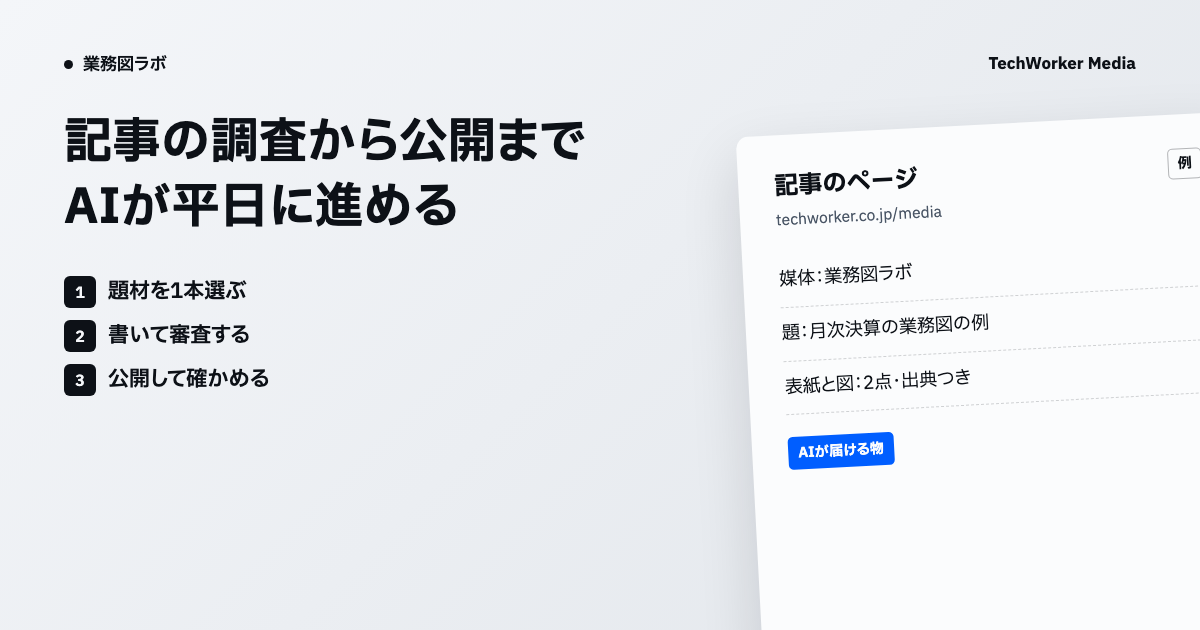
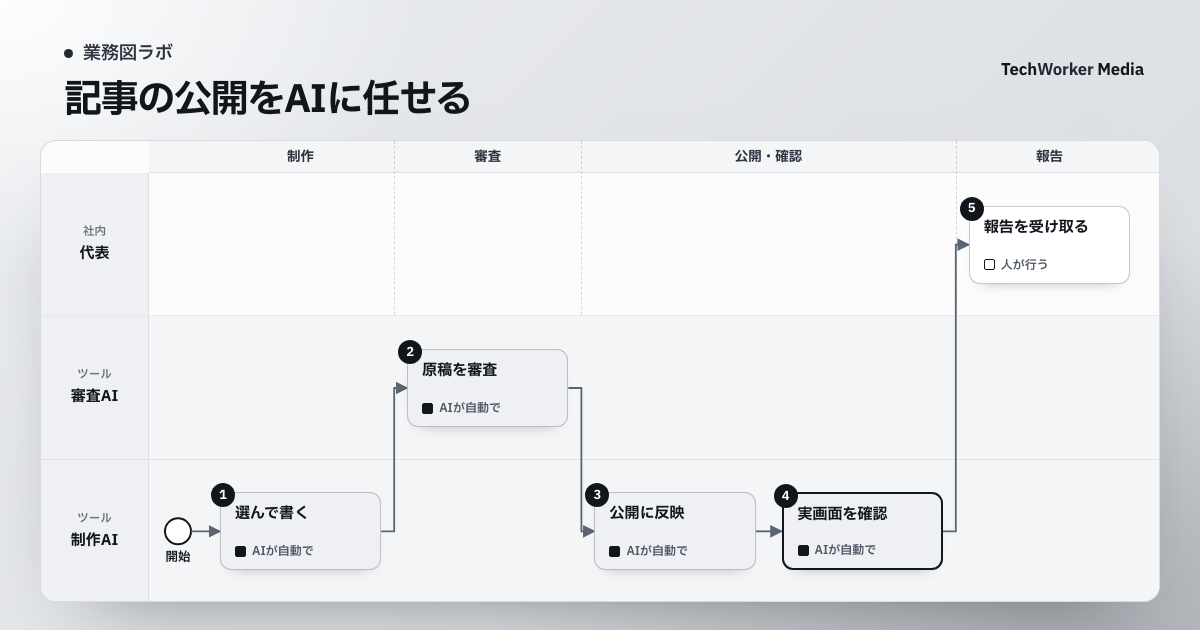
記事の自動公開に実画面の確認記録を追加 (#183)

diff --git a/media/gyomuzu/media-article-automation-process-map.html b/media/gyomuzu/media-article-automation-process-map.html
@@ -15,20 +15,20 @@
 <script>document.documentElement.classList.remove('no-js');document.documentElement.classList.add('js');</script>
 <meta name="viewport" content="width=device-width, initial-scale=1.0">
 <title>記事の公開をAIに任せる｜題材選びから表示の確認まで、審査で止める業務図 — TechWorker</title>
-<meta name="description" content="TechWorkerでは、自社メディアの記事を、AIが題材選びから公開まで平日に進めています。別の目で審査し、通った回だけ公開する流れと、代表が持つ所を紹介します。">
+<meta name="description" content="AIに記事の公開を任せる際は、原稿の合格から実サイトの表示確認までを担当の仕事に含めます。TechWorkerの10月27日の実行記録から、引継ぎ項目と止める条件を紹介します。">
 <link rel="icon" type="image/svg+xml" href="../../assets/favicon.svg">
 <link rel="canonical" href="https://techworker.co.jp/media/gyomuzu/media-article-automation-process-map">
 <meta property="og:type" content="article">
 <meta property="og:title" content="記事の公開をAIに任せる｜題材選びから表示の確認まで、審査で止める業務図">
-<meta property="og:description" content="TechWorkerでは、自社メディアの記事を、AIが題材選びから公開まで平日に進めています。別の目で審査し、通った回だけ公開する流れと、代表が持つ所を紹介します。">
-<meta property="og:image" content="https://techworker.co.jp/media/gyomuzu/covers/media-article-automation-process-map.png">
+<meta property="og:description" content="AIに記事の公開を任せる際は、原稿の合格から実サイトの表示確認までを担当の仕事に含めます。TechWorkerの10月27日の実行記録から、引継ぎ項目と止める条件を紹介します。">
+<meta property="og:image" content="https://techworker.co.jp/media/gyomuzu/covers/media-article-automation-process-map.png?v=20261029">
 <meta property="og:url" content="https://techworker.co.jp/media/gyomuzu/media-article-automation-process-map">
 <meta property="og:site_name" content="TechWorker">
 <meta name="twitter:card" content="summary_large_image">
 <meta name="twitter:title" content="記事の公開をAIに任せる｜題材選びから表示の確認まで、審査で止める業務図">
-<meta name="twitter:image" content="https://techworker.co.jp/media/gyomuzu/covers/media-article-automation-process-map.png">
+<meta name="twitter:image" content="https://techworker.co.jp/media/gyomuzu/covers/media-article-automation-process-map.png?v=20261029">
 <link rel="stylesheet" href="../article.css?v=20261006-source-notes">
-<script type="application/ld+json">{"@context": "https://schema.org", "@type": "Article", "headline": "記事の公開をAIに任せる｜題材選びから表示の確認まで、審査で止める業務図", "description": "TechWorkerでは、自社メディアの記事を、AIが題材選びから公開まで平日に進めています。別の目で審査し、通った回だけ公開する流れと、代表が持つ所を紹介します。", "datePublished": "2026-10-20", "dateModified": "2026-10-20", "inLanguage": "ja", "image": "https://techworker.co.jp/media/gyomuzu/covers/media-article-automation-process-map.png", "author": {"@type": "Person", "name": "古野光太朗", "jobTitle": "株式会社TechWorker 代表取締役 CEO兼CTO", "url": "https://techworker.co.jp/company.html", "image": "https://techworker.co.jp/assets/author-furuno.jpg", "sameAs": ["https://x.com/koutarou_furuno"], "affiliation": {"@type": "Organization", "name": "株式会社TechWorker", "url": "https://techworker.co.jp/"}}, "publisher": {"@type": "Organization", "name": "株式会社TechWorker", "url": "https://techworker.co.jp/", "logo": {"@type": "ImageObject", "url": "https://techworker.co.jp/assets/ogp.png", "width": 1200, "height": 630}}, "mainEntityOfPage": {"@type": "WebPage", "@id": "https://techworker.co.jp/media/gyomuzu/media-article-automation-process-map"}}</script>
+<script type="application/ld+json">{"@context": "https://schema.org", "@type": "Article", "headline": "記事の公開をAIに任せる｜題材選びから表示の確認まで、審査で止める業務図", "description": "AIに記事の公開を任せる際は、原稿の合格から実サイトの表示確認までを担当の仕事に含めます。TechWorkerの10月27日の実行記録から、引継ぎ項目と止める条件を紹介します。", "datePublished": "2026-10-20", "dateModified": "2026-10-29", "inLanguage": "ja", "image": "https://techworker.co.jp/media/gyomuzu/covers/media-article-automation-process-map.png?v=20261029", "author": {"@type": "Person", "name": "古野光太朗", "jobTitle": "株式会社TechWorker 代表取締役 CEO兼CTO", "url": "https://techworker.co.jp/company.html", "image": "https://techworker.co.jp/assets/author-furuno.jpg", "sameAs": ["https://x.com/koutarou_furuno"], "affiliation": {"@type": "Organization", "name": "株式会社TechWorker", "url": "https://techworker.co.jp/"}}, "publisher": {"@type": "Organization", "name": "株式会社TechWorker", "url": "https://techworker.co.jp/", "logo": {"@type": "ImageObject", "url": "https://techworker.co.jp/assets/ogp.png", "width": 1200, "height": 630}}, "mainEntityOfPage": {"@type": "WebPage", "@id": "https://techworker.co.jp/media/gyomuzu/media-article-automation-process-map"}}</script>
 <script type="application/ld+json">{"@context": "https://schema.org", "@type": "BreadcrumbList", "itemListElement": [{"@type": "ListItem", "position": 1, "name": "ホーム", "item": "https://techworker.co.jp/"}, {"@type": "ListItem", "position": 2, "name": "メディア", "item": "https://techworker.co.jp/media/"}, {"@type": "ListItem", "position": 3, "name": "業務図ラボ", "item": "https://techworker.co.jp/media/gyomuzu/"}, {"@type": "ListItem", "position": 4, "name": "記事の公開をAIに任せる｜題材選びから表示の確認まで、審査で止める業務図", "item": "https://techworker.co.jp/media/gyomuzu/media-article-automation-process-map"}]}</script>
 
 <!-- Meta Pixel Code -->
@@ -38,8 +38,8 @@ fbq('init','1264057945446029');fbq('track','PageView');
 </script>
 <noscript><img height="1" width="1" style="display:none" src="https://www.facebook.com/tr?id=1264057945446029&ev=PageView&noscript=1"/></noscript>
 <!-- End Meta Pixel Code -->
-<meta name="twitter:description" content="TechWorkerでは、自社メディアの記事を、AIが題材選びから公開まで平日に進めています。別の目で審査し、通った回だけ公開する流れと、代表が持つ所を紹介します。">
-<meta property="og:image:alt" content="記事の調査から公開までAIが平日に進める">
+<meta name="twitter:description" content="AIに記事の公開を任せる際は、原稿の合格から実サイトの表示確認までを担当の仕事に含めます。TechWorkerの10月27日の実行記録から、引継ぎ項目と止める条件を紹介します。">
+<meta property="og:image:alt" content="記事の公開をAIに任せる。制作・審査・反映・実画面確認と代表への報告を分ける業務図。">
 <link rel="stylesheet" href="/media/audience-filter.css?v=20261006-media-only">
 <link rel="stylesheet" href="/assets/site/site.css">
 </head>
@@ -67,43 +67,49 @@ fbq('init','1264057945446029');fbq('track','PageView');
 
 <header class="art-head">
 <nav class="crumb" aria-label="パンくず"><a href="../../index.html">ホーム</a><span class="sep">/</span><a href="../index.html">メディア</a><span class="sep">/</span><a href="index.html">業務図ラボ</a><span class="sep">/</span>記事の公開をAIに任せる</nav>
-<div class="kicker">AIエージェントの事例</div><h1>記事の公開をAIに任せる｜題材選びから表示の確認まで、審査で止める業務図</h1><p class="dek">TechWorkerでは、自社メディアの記事を、AIが題材選びから公開まで平日に進めています。別の目で審査し、通った回だけ公開する流れと、代表が持つ所を紹介します。</p>
-<div class="a-meta"><img class="av" src="../../assets/author-furuno.jpg" alt="古野光太朗" width="36" height="36" decoding="async"><span class="who">古野光太朗</span><span class="dot">·</span><time datetime="2026-10-20">2026.10.20</time><span class="dot">·</span><span>読了 3分</span></div>
+<div class="kicker">任せる工程の決め方</div><h1>記事の公開をAIに任せる｜題材選びから表示の確認まで、審査で止める業務図</h1><p class="dek">AIに記事の公開を任せる際は、原稿の合格から実サイトの表示確認までを担当の仕事に含めます。TechWorkerの10月27日の実行記録から、引継ぎ項目と止める条件を紹介します。</p>
+<div class="a-meta"><img class="av" src="../../assets/author-furuno.jpg" alt="古野光太朗" width="36" height="36" decoding="async"><span class="who">古野光太朗</span><span class="dot">·</span><time datetime="2026-10-20">2026.10.20</time><span class="dot">·</span><span>最終更新 2026.10.29</span><span class="dot">·</span><span>読了 6分</span></div>
 <p class="article-audience"><span class="article-audience-label">主な対象読者</span><a href="/media/gyomuzu/?audience=operations#articles">業務責任者</a></p>
 </header>
-<div class="art-layout"><nav class="art-toc" aria-label="目次"><div class="art-toc-inner"><div class="toc-h">目次</div><a href="#s1">当社では、AIが平日に記事を公開しています</a><a href="#s2">5つの媒体の記事を、同じ手順で出し続けます</a><a href="#s3">題材を選び、書いて審査し、公開して確かめます</a><a href="#s4">公開前の承認はせず、止まった回の原因は代表が受け取ります</a><a href="#s5">9月2日以降に足した記事のうち、29本が公開中です</a><a href="#s6">自社で試すときは、審査の条件と止まった回の知らせ方から決めます</a><a href="#s7">業務図で、AIが進める所と人が決める所を分けます</a><a href="#sources">出典と、本記事で提案した範囲</a></div></nav><article class="art-body">
-<h2 id="s1">当社では、AIが平日に記事を公開しています</h2>
-<p class="answer">TechWorkerでは2026年8月17日から、AIが自社メディアの記事を題材選びから公開まで進めています。今は平日に毎日起動し、9月2日以降に足した記事のうち、公開中は29本です。</p>
-<figure class="fig-inline source-figure"><a class="source-image" href="figs/media-article-automation-process-map-1.png" target="_blank" rel="noopener"><img src="figs/media-article-automation-process-map-1.png" width="1200" height="714" alt="記事の調査から公開まで、AIが平日に進めます。AIが読む物、AIの処理、届く物、人が決めること、課題と改善結果を1枚にまとめた事例のページの図。" loading="eager" decoding="async"></a><figcaption><span class="source-label">TechWorkerの事例のページ</span>出典：<a href="/agent-cases/media-articles">AIエージェントの事例「記事の調査から公開まで、AIが平日に進めます」</a>（2026年10月20日公開・確認）。画面の中身は例です。画像を押すと拡大できます。</figcaption></figure>
-<p>AIが読む物は2つです。自社の閲覧と検索の数字と、公式の発表などの新しい情報の原文です。届く物は自社サイトのメディアの記事のページです。</p>
-<p>仕組みの全体は<a href="/agent-cases/media-articles">事例のページ「記事の調査から公開まで、AIが平日に進めます」</a>にまとめています。</p>
-<h2 id="s2">5つの媒体の記事を、同じ手順で出し続けます</h2>
-<p class="answer">自社のメディアは5つの媒体に分かれ、題材選びから表示の確認まで手順が多くあります。5つの媒体の記事を、同じ手順で出し続ける必要がありました。</p>
-<p>審査の後に、公開されずに止まる回もありました。今は、計測から公開までを、AIが1回の流れで進めています。</p>
-<h2 id="s3">題材を選び、書いて審査し、公開して確かめます</h2>
-<p class="answer">1回の流れの中で、AIは題材を選び、書いて審査し、公開して表示を確かめます。</p>
-<figure class="fig-inline"><a href="figs/media-article-automation-process-map-2.png" target="_blank" rel="noopener"><img src="figs/media-article-automation-process-map-2.png" alt="記事をAIが公開する流れ（TechWorkerの自社メディア）。数字と発表が届く、題材を1本選ぶ、書いて審査する、公開して確かめる、止まった回の報告を読むの順に進みます。" width="1200" height="699" loading="lazy" decoding="async"></a><figcaption>TechWorker作成：記事をAIが公開する流れ（TechWorkerの自社メディア）。事例のページの仕組みをもとにした業務図です。</figcaption></figure>
-<p>題材は自社のノウハウか最新情報から1本選びます。図の例では、研修の費用の記事や業務図の作り方の記事について、閲覧と検索の表示の数字を見ています。</p>
-<p>書くときは、調べて根拠をつけます。表紙と図も作り、別の目で事実と文章を確かめます。</p>
-<p>公開したあとは、PCとスマホの表示を見ます。</p>
+<div class="art-layout"><nav class="art-toc" aria-label="目次"><div class="art-toc-inner"><div class="toc-h">目次</div><a href="#s1">原稿の合格から、実サイトの表示確認まで進める</a><a href="#s2">書くAI、審査するAI、公開を確かめるAIの仕事を分ける</a><a href="#s3">完了の記録に、URL・反映版・実画面の結果を残す</a><a href="#s4">止まった工程と、再開できる条件をそろえる</a><a href="#s5">最初は既存記事の更新で引継ぎを試す</a><a href="#sources">出典と確認できた範囲</a></div></nav><article class="art-body">
+<h2 id="s1">原稿の合格から、実サイトの表示確認まで進める</h2>
+<p>原稿の審査が済んでも、公開先に反映される前に止まると、読者には届きません。TechWorkerでは審査と公開、その後の表示確認を一続きの仕事にしています。</p>
+<p>次は2026年10月27日に公開した見積業務の記事です。自社の制作物として、タイトルと冒頭を示しています。</p>
+<figure class="fig-inline source-figure"><a class="source-image" href="figs/media-article-automation-process-map-source-20261029.jpg" target="_blank" rel="noopener"><img src="figs/media-article-automation-process-map-source-20261029.jpg" width="1280" height="720" alt="TechWorkerが10月27日に公開した見積業務の記事。タイトル、説明、公開日と対象読者が表示されています。" loading="eager" decoding="async"></a><figcaption><span class="source-label">自社で公開した記事の画面</span>出典：<a href="quotation-draft-review-process-map">見積のAI活用</a>。株式会社TechWorker作成。記事公開日2026年10月27日、画面確認日10月29日。自社保有の画面を掲載しています。押すと拡大できます。</figcaption></figure>
+<p>この画面から、記事のタイトルと公開日、対象読者を確認できます。画面に写っている範囲だけでは、記事末までの表示やスマホの状態は分かりません。</p>
+<p>10月27日の実行記録にはサイトへの反映成功と、PC・スマホの表示確認を別々に残しています。本文の表示、画像の読込、横にはみ出さないことを確かめました。記事中と記事末の申込み先も確認しています。</p>
+<h2 id="s2">書くAI、審査するAI、公開を確かめるAIの仕事を分ける</h2>
+<p class="answer">題材選びと執筆の後に、独立した審査を置きます。合格した原稿を反映し、実際の公開URLで表示を確かめます。</p>
+    <figure class="fig-inline"><a href="figs/media-article-automation-process-map-2.png?v=20261029" target="_blank" rel="noopener"><img src="figs/media-article-automation-process-map-2.png?v=20261029" alt="制作AIが題材を選んで書き、審査AIが原稿を確認します。合格後に制作AIが公開へ反映して実画面を確かめ、代表が報告を受け取る流れです。" width="1200" height="720" loading="lazy" decoding="async"></a><figcaption>TechWorker作成。自社の公開手順を担当別に示しています。図は合格した記事の流れで、不合格や不具合があれば止めて代表へ報告します。</figcaption></figure>
+<p>対象は業務図、研修・導入、士業、インタビュー、セキュリティの5媒体です。平日の1回の実行で扱う記事は1本です。題材は自社の実記録か、Xで観測して公式資料を確かめた最新情報から選びます。</p>
+<p>自社の数字は題材の需要や既存記事との重複を確かめる補助に使います。検索語だけで一般的な解説を増やさず、同じ問いに答える記事があれば更新に回します。</p>
+<p>本文を審査してから、表紙と必要な説明図を作ります。画像と本文を照合した後、許可された記事・画像・一覧などの変更だけをサイトへ反映します。</p>
+<p>この業務図は公開物と実行記録を基にした担当の整理です。AIの担当を分けた図であり、人間が毎回すべてを承認する流れではありません。</p>
 <aside class="mid-cta"><div class="mc-body"><div class="mc-k">無料ダウンロード</div><div class="mc-t">部署別 業務図テンプレート集</div><div class="mc-d">AIに任せる工程の見つけ方つき。担当と確認者を決める際に使える設計例です。</div></div><a href="../../library/?doc=gyomuzu&amp;utm_source=techworker_media&amp;utm_medium=article&amp;utm_campaign=media-article-automation-process-map&amp;utm_content=mid" class="btn" data-cta="media-article-automation-process-map-mid">無料で受け取る <i>→</i></a></aside>
-<h2 id="s4">公開前の承認はせず、止まった回の原因は代表が受け取ります</h2>
-<p class="answer">公開前の承認はしません。止まった回は、原因と再開の条件を代表が受け取ります。</p>
-<p>AIがするのは、審査に通った記事を公開するまでです。方針は代表が決めます。</p>
-<p>審査に通らない回は公開せず、本数も増やしません。</p>
-<h2 id="s5">9月2日以降に足した記事のうち、29本が公開中です</h2>
-<p class="answer">9月2日以降に足した記事のうち、2026年10月19日の時点で公開中は29本です。5つの媒体に、題材を選んで1本ずつ公開しています。</p>
-<p>公開するのは、審査に通った回だけです。</p>
-<h2 id="s6">自社で試すときは、審査の条件と止まった回の知らせ方から決めます</h2>
-<p class="answer">自社で同じ形を試すなら、最初に審査で確かめる条件と、止まった回の知らせ方を決めます。ここからは本記事の提案です。</p>
-<p>審査の条件が決まっていれば、公開の前に人が毎回読まなくても進められます。</p>
-<p>止まった回には原因と再開の条件を添えて知らせる形にします。知らせを受けた人は再開するかどうかだけを決めます。</p>
-<h2 id="s7">業務図で、AIが進める所と人が決める所を分けます</h2>
-<p class="answer">記事づくりのように手順が多い仕事は、AIが進める所と人が決める所を分けると、任せる範囲がはっきりします。業務図はその分け方を1枚で確かめる道具です。</p>
-<p>ギョウムズAIは聞き取り・資料・業務の記録の3つから、AIが部署の業務図を作るサービスです。2週間の無料検証から始められます。</p>
-<h2 id="sources">出典と、本記事で提案した範囲</h2>
-<ul class="source-list"><li>TechWorker社内の自動実行の設定と、自社サイトの公開の記録（2026年10月19日時点）。公開資料ではありません。</li><li><a href="/agent-cases/media-articles">TechWorker「AIエージェントの事例」の事例のページ</a>（2026年10月20日公開）。</li></ul>
-<p>流れ、審査で止める決まり、公開中の本数は当社の設定と記録にある事実です。審査の条件と止まった回の知らせ方を先に決めることは、本記事の提案です。記事ごとの閲覧の伸びと時間の削減は、本記事では扱いません。</p>
+<h2 id="s3">完了の記録に、URL・反映版・実画面の結果を残す</h2>
+<p>10月27日は、GitHubで原稿の変更を統合し、サイトへの配信処理の成功を確認しました。その後、公開した記事をPCとスマホで開いています。</p>
+<p>配信処理の成功は公開先へ送る工程の確認です。実画面では本文と画像が読めるか、申込みの案内が見えるかを確かめます。両方の記録を同じ記事に結び付けます。</p>
+<p>次の表は10月27日の記録から抜き出した項目です。公開URLと反映した版、画面の結果を同じ記録に残しています。</p>
+<div class="tbl-wrap"><table><thead><tr><th>記録する項目</th><th>10月27日の記録</th><th>確認する仕事</th></tr></thead><tbody>
+<tr><td>公開URL</td><td><a href="quotation-draft-review-process-map">見積のAI活用の記事URL</a></td><td>別の記事を見ていないか確かめる</td></tr>
+<tr><td>反映した版</td><td>変更の統合番号175、配信処理40423858002が成功</td><td>審査した原稿が反映されたか確かめる</td></tr>
+<tr><td>PC・スマホ</td><td>PC幅1,365px・スマホ幅390px。本文と画像を表示、横はみ出しなし</td><td>画像を含めて末尾まで読む</td></tr>
+
+</tbody></table></div>
+<p>自動検査では、本文が透明になっていないか、画像を読み込めたかも調べます。画像はスクロールして読み込むものも含めて確認します。画面幅を変えたときは、実際の表示幅も記録します。</p>
+<p>この1回の公開は無人運用の成功率や時間の削減を示す結果ではありません。記事の閲覧、申込み、売上は公開の確認とは別に測ります。</p>
+<h2 id="s4">止まった工程と、再開できる条件をそろえる</h2>
+<p>代表は、品質に合格した記事と画像を公開する範囲を、継続して承認しています。公開前に毎回承認を求める手順は置いていません。止まった回は、工程・原因・再開条件を代表へ報告します。方針を変える判断は代表が行います。</p>
+<p>根拠不足、画像の権利の懸念、記事の重複、表示の不具合があれば止めます。認証、課金、秘密情報、サイトの経路設定が変更に混ざった場合も、通常の記事公開として進めません。</p>
+<p>取得できない計測項目は未取得として残します。計測の不足だけを理由に、根拠と品質がそろった記事の公開を止めません。数字による成果の判定は取得できるまで保留にします。</p>
+<p>再開の報告は「画像を直したら、公開URLでPC・スマホの表示を再確認する」のように書きます。本人のログインや公開許可が要る場合は、その操作だけを分けます。権限のあるAIが直せる不具合は、任された範囲で直します。</p>
+<h2 id="s5">最初は既存記事の更新で引継ぎを試す</h2>
+<p>自社で試すなら、公開済みの記事を1本選び、更新する範囲と担当を決める方法を提案します。新しい記事を増やす前に、審査から表示確認まで通せるかを確かめます。</p>
+<p>始める前に、使ってよい資料、変更してよいファイル、審査の条件を決めます。契約や顧客情報を含む資料は、公開できる範囲を確かめてから渡します。</p>
+<p>業務図には、AIが読む資料、作る原稿、審査で戻す条件、公開後に確かめる物を記入します。最後に、止まった工程の担当と次の確認先を書きます。これで、誰が何を引き取るかを確かめられます。</p>
+<h2 id="sources">出典と確認できた範囲</h2>
+<ul class="source-list"><li><a href="/agent-cases/media-articles">記事の調査から公開まで、AIが平日に進めます</a>。TechWorkerの公開済み事例。2026年10月20日公開、10月29日確認。</li><li><a href="quotation-draft-review-process-map">10月27日に公開した見積業務の記事</a>。自社の公開物。10月29日確認。</li><li><a href="https://github.com/furuchanchan/techworker-hp/actions/runs/40423858002">10月27日のサイト配信処理の記録</a>。成功を確認。PC・スマホの検査結果は同日の自社運用記録と照合しました。</li></ul>
+<p>自社の公開手順と10月27日の確認結果を紹介しています。他社で試す順序は、TechWorkerの提案です。顧客の声、時間の削減率、申込みの増加は主張していません。</p>
 </article></div>
 
 <div class="author"><div class="inner">
@@ -116,17 +122,15 @@ fbq('init','1264057945446029');fbq('track','PageView');
 
 <section class="related"><div class="container">
   <h2 class="rl-h">あわせて読む</h2>
-  <div class="related-grid">
-    <a href="material-use-ideation-process-map.html" class="related-card"><span class="rc-cat">AIエージェントの事例を読む</span><div class="rc-title">新素材の用途探しにAIを使う｜案を広げ、3つの観点で絞る業務図</div></a><a href="department-ai-rollout-process-map.html" class="related-card"><span class="rc-cat">AIエージェントの事例を読む</span><div class="rc-title">AIの全社展開を部門ごとに計画する｜特性の整理から横展開までの業務図</div></a><a href="/agent-cases/" class="related-card"><span class="rc-cat">事例の一覧</span><div class="rc-title">AIエージェントの事例｜AIが読む物・処理・届く物・人が決めることを1件ずつ</div></a>
-  </div>
+  <div class="related-grid"><a href="ai-task-allocation-process-map.html" class="related-card"><span class="rc-cat">任せる工程を決める</span><div class="rc-title">AIに任せる業務の決め方｜商談業務図で読む、下書きと実行の境界</div></a><a href="site-weekly-improvement-process-map.html" class="related-card"><span class="rc-cat">公開後の見直し</span><div class="rc-title">サイトの改善をAIが毎週1つ進める｜数字を読み、直して台帳に残す業務図</div></a></div>
 </div></section>
 
 <div class="art-cta"><div class="inner">
   <div>
     <h3>部署の仕事の流れを、3つの情報からAIが業務図にします。</h3>
-    <p>ギョウムズAIは担当者への聞き取り・手元の資料・業務の記録の3つから、AIが部署の仕事の流れを1枚の業務図にするサービスです。2週間の無料検証では、任せる仕事の引き継ぎ書（業務図・判断の一覧など）を作ってお渡しします。</p>
+    <p>ギョウムズAIは、担当者への聞き取り・手元の資料・業務の記録の3つから、AIが部署の仕事の流れを1枚の業務図にするサービスです。任せる工程を決める前に、部署の仕事を確かめられます。</p>
   </div>
-  <a href="../../companymap/contact?utm_source=techworker_media&amp;utm_medium=article&amp;utm_campaign=media-article-automation-process-map&amp;utm_content=end" class="btn">無料相談を申し込む <i>→</i></a>
+  <a href="../../companymap/contact?utm_source=techworker_media&amp;utm_medium=article&amp;utm_campaign=media-article-automation-process-map&amp;utm_content=end" class="btn">30分の無料相談 <i>→</i></a>
 </div></div>
 <div class="back-list"><a href="index.html">← 業務図ラボの記事一覧に戻る</a></div>
 

diff --git a/media/gyomuzu/index.html b/media/gyomuzu/index.html
@@ -134,7 +134,7 @@ fbq('init','1264057945446029');fbq('track','PageView');
 <div id="audience-results" class="jz-list has-thumb rv">
 <a data-audience-item data-audience="operations" href="quotation-draft-review-process-map.html"><img class="l-thumb" src="covers/thumbs/quotation-draft-review-process-map.jpg" alt="見積のAI活用｜下書き・確認・送信を分ける業務図" width="600" height="315" loading="lazy"><div class="l-side"><div class="l-cat">部署別の業務図</div><div class="l-date">2026.10.27</div></div><div><div class="l-title">見積のAI活用｜下書き・確認・送信を分ける業務図</div><div class="l-desc">電材・電線卸の見積業務を、デンミツAIの公開画面から読み解きます。品番・数量・単価を人へ戻す条件と、試行時に残す記録を設計例で示します。</div><span class="audience-tag">業務責任者</span></div><div class="l-arrow">&rarr;</div></a>
 <a data-audience-item data-audience="it" href="company-memory-nightly-process-map.html"><img class="l-thumb" src="covers/thumbs/company-memory-nightly-process-map.jpg" alt="会社の記憶をAIが毎晩整理する｜記録から事実を抜き、翌朝のAIに渡す業務図" width="600" height="315" loading="lazy"><div class="l-side"><div class="l-cat">AIエージェントの事例</div><div class="l-date">2026.10.20</div></div><div><div class="l-title">会社の記憶をAIが毎晩整理する｜記録から事実を抜き、翌朝のAIに渡す業務図</div><div class="l-desc">TechWorkerでは、社内の決定・会話・案件の記録を、AIが毎晩2時に整理しています。事実を抜き出し、つながりを直して翌朝のAIに渡す流れと、人が直す所を紹介します。</div><span class="audience-tag">情シス・AI導入担当</span></div><div class="l-arrow">&rarr;</div></a>
-<a data-audience-item data-audience="operations" href="media-article-automation-process-map.html"><img class="l-thumb" src="covers/thumbs/media-article-automation-process-map.jpg" alt="記事の公開をAIに任せる｜題材選びから表示の確認まで、審査で止める業務図" width="600" height="315" loading="lazy"><div class="l-side"><div class="l-cat">AIエージェントの事例</div><div class="l-date">2026.10.20</div></div><div><div class="l-title">記事の公開をAIに任せる｜題材選びから表示の確認まで、審査で止める業務図</div><div class="l-desc">TechWorkerでは、自社メディアの記事を、AIが題材選びから公開まで平日に進めています。別の目で審査し、通った回だけ公開する流れと、代表が持つ所を紹介します。</div><span class="audience-tag">業務責任者</span></div><div class="l-arrow">&rarr;</div></a>
+<a data-audience-item data-audience="operations" href="media-article-automation-process-map.html"><img class="l-thumb" src="covers/thumbs/media-article-automation-process-map.jpg?v=20261029" alt="記事の公開をAIに任せる｜題材選びから表示の確認まで、審査で止める業務図" width="600" height="315" loading="lazy"><div class="l-side"><div class="l-cat">任せる工程の決め方</div><div class="l-date">更新 2026.10.29</div></div><div><div class="l-title">記事の公開をAIに任せる｜題材選びから表示の確認まで、審査で止める業務図</div><div class="l-desc">AIに記事の公開を任せる際は、原稿の合格から実サイトの表示確認までを担当の仕事に含めます。TechWorkerの10月27日の実行記録から、引継ぎ項目と止める条件を紹介します。</div><span class="audience-tag">業務責任者</span></div><div class="l-arrow">&rarr;</div></a>
 <a data-audience-item data-audience="operations" href="material-use-ideation-process-map.html"><img class="l-thumb" src="covers/thumbs/material-use-ideation-process-map.jpg" alt="新素材の用途探しにAIを使う｜案を広げ、3つの観点で絞る業務図" width="600" height="315" loading="lazy"><div class="l-side"><div class="l-cat">AIエージェントの事例</div><div class="l-date">2026.10.20</div></div><div><div class="l-title">新素材の用途探しにAIを使う｜案を広げ、3つの観点で絞る業務図</div><div class="l-desc">化学メーカーで、新素材の用途探しを生成AIの手法にした事例です。AIが用途の案を広げ、市場性・技術難易度・自社方針適合度で採点し、1時間で絞り込むまでの流れを紹介します。</div><span class="audience-tag">業務責任者</span></div><div class="l-arrow">&rarr;</div></a>
 <a data-audience-item data-audience="executive" href="department-ai-rollout-process-map.html"><img class="l-thumb" src="covers/thumbs/department-ai-rollout-process-map.jpg" alt="AIの全社展開を部門ごとに計画する｜特性の整理から横展開までの業務図" width="600" height="315" loading="lazy"><div class="l-side"><div class="l-cat">AIエージェントの事例</div><div class="l-date">2026.10.20</div></div><div><div class="l-title">AIの全社展開を部門ごとに計画する｜特性の整理から横展開までの業務図</div><div class="l-desc">建設企業で、経営層が掲げるAI活用を、部門ごとの導入計画に落としている事例です。業務の特性を整理し、ロードマップを作り、先に進めた部門のやり方を広げる流れを紹介します。</div><span class="audience-tag">経営者・経営幹部</span></div><div class="l-arrow">&rarr;</div></a>
 <a data-audience-item data-audience="operations" href="market-research-inhouse-process-map.html"><img class="l-thumb" src="covers/thumbs/market-research-inhouse-process-map.jpg" alt="市場リサーチを社内で回す｜Deep Researchで調べ、判断は社員が持つ業務図" width="600" height="315" loading="lazy"><div class="l-side"><div class="l-cat">AIエージェントの事例</div><div class="l-date">2026.10.20</div></div><div><div class="l-title">市場リサーチを社内で回す｜Deep Researchで調べ、判断は社員が持つ業務図</div><div class="l-desc">製薬企業のマーケティング部門で、外部コンサルに任せていた疾患・薬剤の市場リサーチを、社員が自分で回せるようにした事例です。Deep Researchで調べる手順と、社員が持つ判断を紹介します。</div><span class="audience-tag">業務責任者</span></div><div class="l-arrow">&rarr;</div></a>
